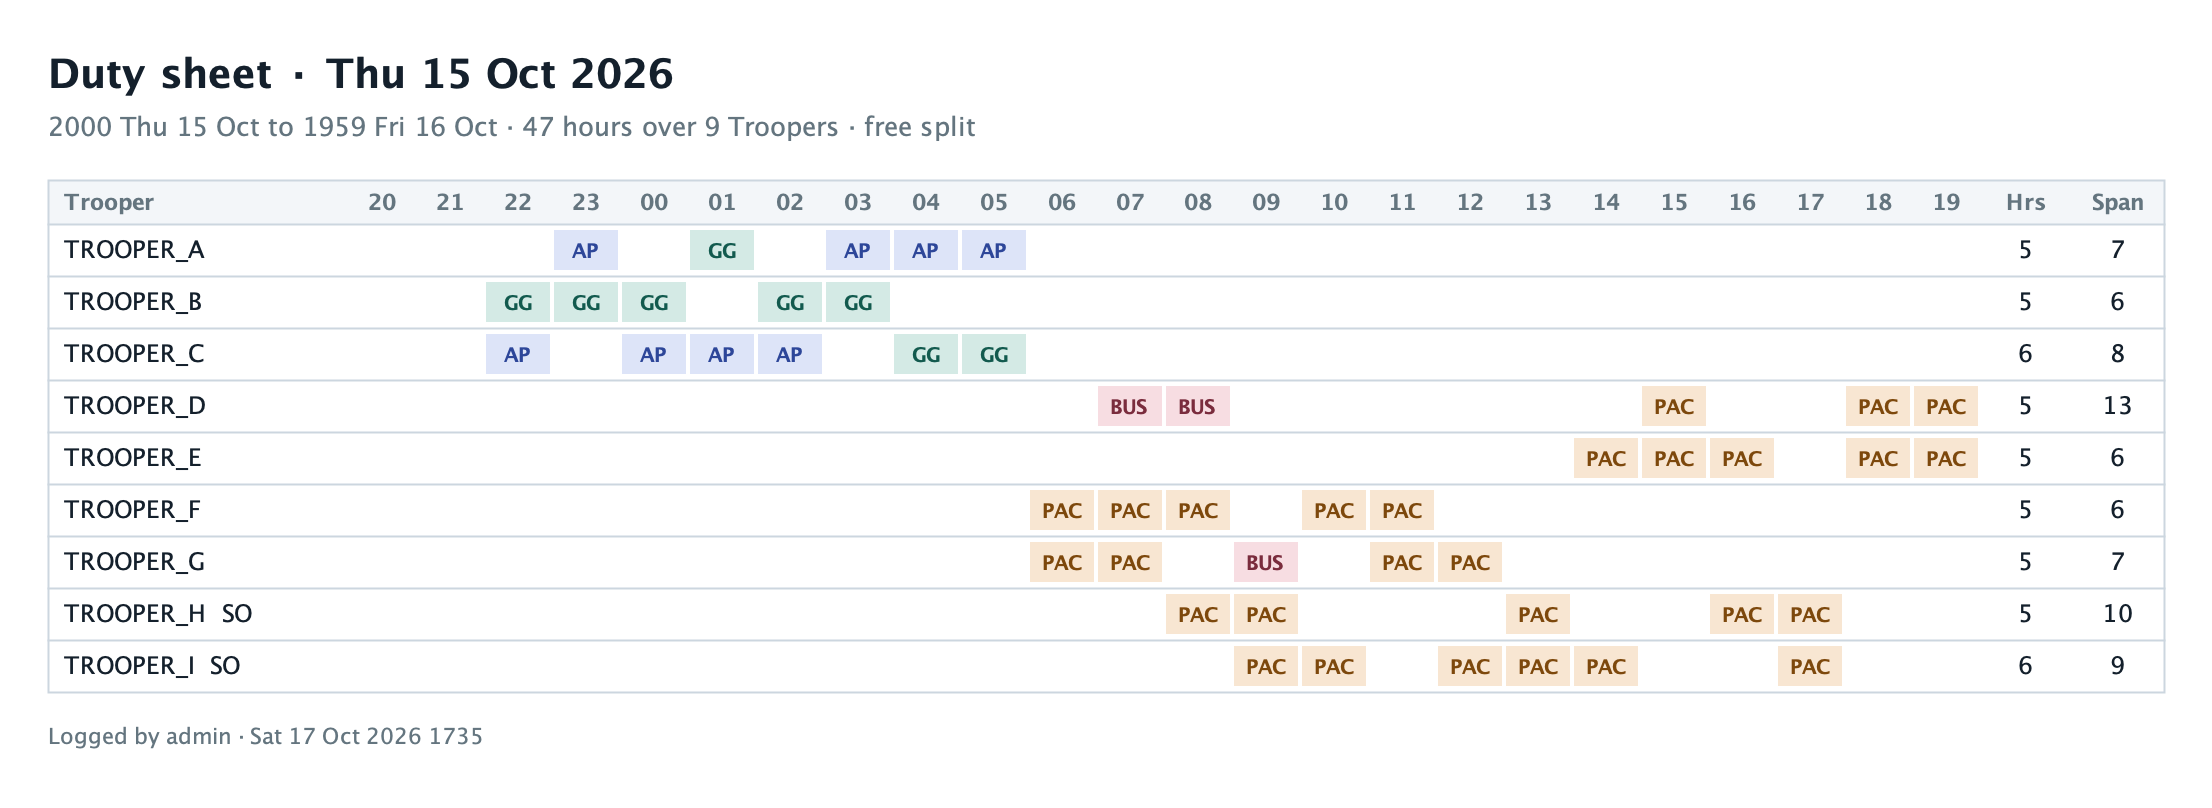
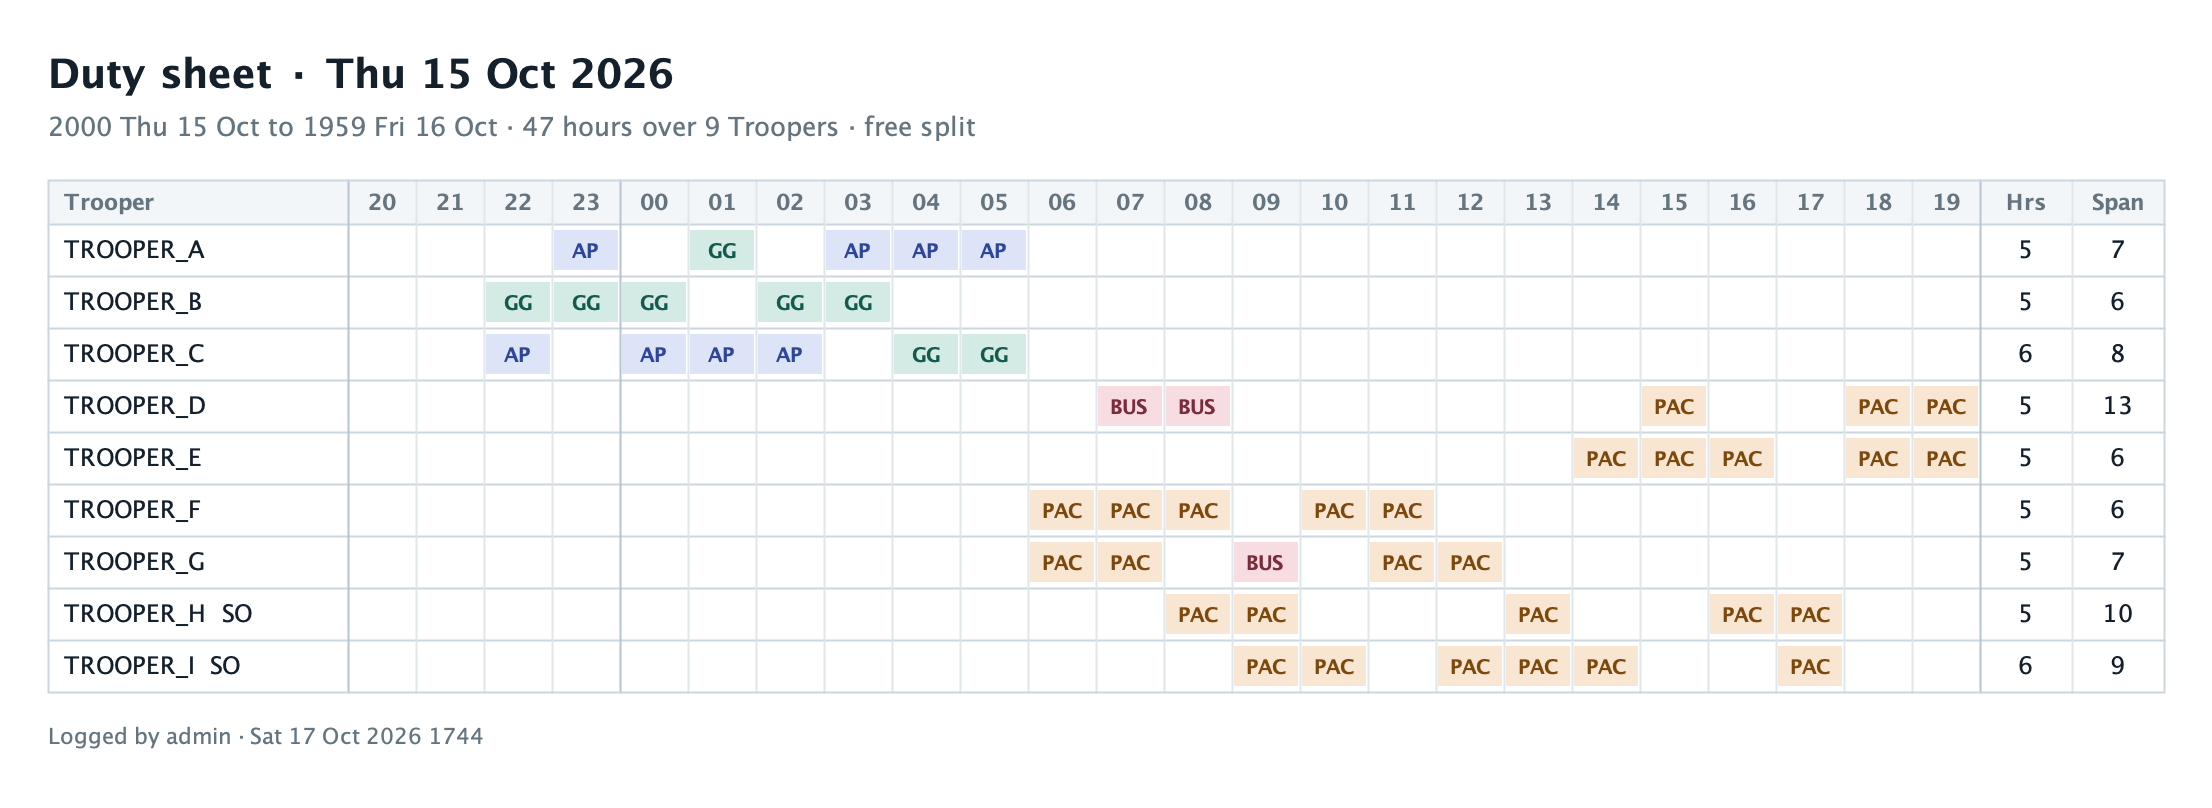
feat(export): hour lines on the sheet image

Changed region(s): [[0.1872, 0.8973, 0.2184, 0.9282]]

diff --git a/src/main/java/com/dutyscheduler/duty/export/SheetImage.java b/src/main/java/com/dutyscheduler/duty/export/SheetImage.java
@@ -59,6 +59,12 @@ public final class SheetImage {
     private static final Color LINE = new Color(0xCCD6DF);
     private static final Color PAPER = Color.WHITE;
     private static final Color BAND = new Color(0xF3F6F9);
+    /** The board's grid lines: light between hours, stronger at midnight and at the edges of the hours. */
+    static final Color GRID = new Color(0xDFE6EC);
+    static final Color GRID_STRONG = new Color(0xB6C4CF);
+
+    /** Slot 4 is midnight, where the date changes; the board rules it heavier too. */
+    private static final int MIDNIGHT = 4;
 
     /** Post colours: a light ground and a dark ink, each pair well above 4.5:1. */
     static final Map<Post, Color[]> POST_COLOURS = new EnumMap<>(Map.of(
@@ -124,8 +130,9 @@ public final class SheetImage {
                 drawMpRow(g, mp, x0, y);
                 y += ROW_H;
             }
-            g.setColor(LINE);
             g.setStroke(new BasicStroke(1));
+            drawGrid(g, x0, y - gridRows * ROW_H - HEAD_H, y);
+            g.setColor(LINE);
             g.drawRect(x0, y - gridRows * ROW_H - HEAD_H, gridW, gridRows * ROW_H + HEAD_H);
 
             g.setColor(DIM);
@@ -156,6 +163,23 @@ public final class SheetImage {
         return "2000 " + shortDate(day.date()) + " to 1959 " + shortDate(day.date().plusDays(1))
                 + " · " + hours + " hours over " + onDuty + " Trooper" + (onDuty == 1 ? "" : "s") + " · " + split
                 + (mpHours > 0 ? " · " + mpHours + " post-hour" + (mpHours == 1 ? "" : "s") + " to the MP team" : "");
+    }
+
+    /**
+     * A line down every hour's edge, so an hour can be read across a printed
+     * or forwarded sheet without a ruler. Drawn on the cells' own edges, which
+     * the post blocks stop one pixel short of, so no block is cut through.
+     */
+    private static void drawGrid(Graphics2D g, int x0, int top, int bottom) {
+        int hours = x0 + NAME_W;
+        for (int slot = 0; slot <= DutyDay.SLOT_COUNT; slot++) {
+            boolean strong = slot == 0 || slot == MIDNIGHT || slot == DutyDay.SLOT_COUNT;
+            g.setColor(strong ? GRID_STRONG : GRID);
+            g.drawLine(hours + slot * HOUR_W, top, hours + slot * HOUR_W, bottom);
+        }
+        int tally = hours + DutyDay.SLOT_COUNT * HOUR_W + TALLY_W;
+        g.setColor(GRID);
+        g.drawLine(tally, top, tally, bottom);
     }
 
     private static void drawHeader(Graphics2D g, DutyDay day, int x0, int y) {

diff --git a/src/test/java/com/dutyscheduler/duty/export/SheetImageTest.java b/src/test/java/com/dutyscheduler/duty/export/SheetImageTest.java
@@ -121,4 +121,30 @@ class SheetImageTest {
         String line = SheetImage.subtitle(THURSDAY, withAway.rows(), null, 0);
         assertTrue(line.contains("47 hours over 9 Troopers"), line);
     }
+
+    @Test
+    @DisplayName("a grid line runs down every hour's edge, heavier at midnight")
+    void gridLines() throws IOException {
+        Schedule sheet = solve(null);
+        List<Schedule.Row> rows = sheet.rows().stream().filter(r -> r.hours() > 0).toList();
+        BufferedImage image = decode(SheetImage.png(sheet, null, "admin", Instant.now()));
+        int s = SheetImage.SCALE;
+
+        // Read halfway down each row, on the edge between two hours, where nobody
+        // is on either side of it, so the pixel is the line and not a post.
+        int checked = 0;
+        for (int r = 0; r < rows.size(); r++) {
+            for (int edge = 1; edge < DutyDay.SLOT_COUNT; edge++) {
+                if (rows.get(r).at(edge - 1) != null || rows.get(r).at(edge) != null) {
+                    continue;
+                }
+                Color expected = edge == 4 ? SheetImage.GRID_STRONG : SheetImage.GRID;
+                Color actual = new Color(image.getRGB((PAD + NAME_W + edge * HOUR_W) * s,
+                        (FIRST_ROW_Y + r * ROW_H + ROW_H / 2) * s));
+                assertEquals(expected, actual, rows.get(r).trooper().name() + " at the edge before slot " + edge);
+                checked++;
+            }
+        }
+        assertTrue(checked > 50, "enough empty edges to mean something: " + checked);
+    }
 }
